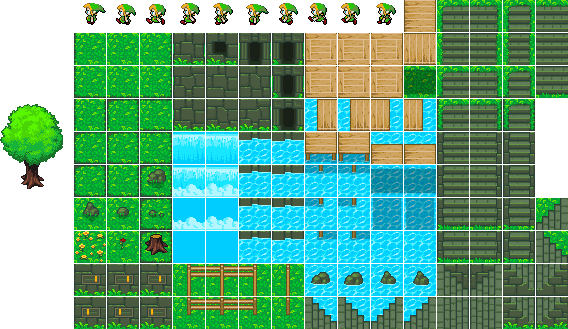
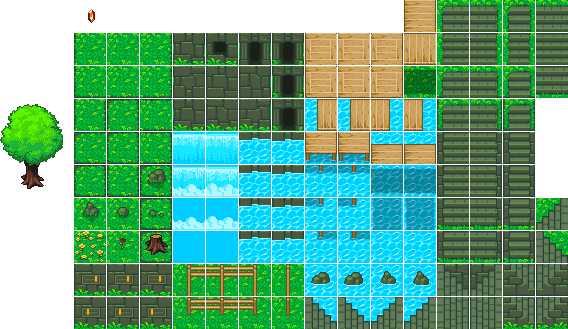
refatoração dos componentes de canvas

Changed region(s): [[0.2095, 0.0, 0.6285, 0.0912], [0.6585, 0.0, 0.7183, 0.0912], [0.1496, 0.0, 0.1796, 0.0912]]

diff --git a/src/components/canvas/GlCharacter.vue b/src/components/canvas/GlCharacter.vue
@@ -12,12 +12,21 @@ export default {
     actions: {
       type: Array,
       required: true
+    },
+    target: {
+      type: Object,
+      required: false
+    }
+  },
+  watch: {
+    actions() {
+      this.draw();
     }
   },
   methods: {
     draw() {
       const image = new Image();
-      image.src = require(`../assets/${this.src}`);
+      image.src = require(`../../assets/${this.src}`);
       image.addEventListener("load", () => {
         if (this.sprite) this.spriteDraw({ image });
       });
@@ -56,21 +65,33 @@ export default {
         };
 
         const walkableTile = (sprite, oldSprite) => {
-          const number = value => Number(value.toFixed(2));
-          const x = Math.floor(number(sprite.x) / number(this.tileSize));
-          const y = Math.floor(number(sprite.y) / number(this.tileSize));
+          const x = Math.round(sprite.x / this.tileSize);
+          const y = Math.round(sprite.y / this.tileSize);
           if (!this.tileList[y][x].isWalkable) {
             sprite.x = oldSprite.x;
             sprite.y = oldSprite.y;
+            sprite.callNextAction = true;
           }
           return sprite;
         };
+        const isTarget = (sprite, target = this.target) => {
+          const getTile = value => Math.round(value / this.tileSize);
+          return (
+            getTile(sprite.x) == getTile(target.x) &&
+            getTile(sprite.y) == getTile(target.y)
+          );
+        };
+
         cloneSprite = outOfBound(cloneSprite);
         cloneSprite = walkableTile(cloneSprite, oldSprite);
+        if (isTarget(sprite)) {
+          cloneSprite.callNextAction = true;
+          this.$emit("onFinish");
+        }
         return cloneSprite;
       };
 
-      const walk = (sprite, pixelFrame = this.tileSize / 8) => {
+      const walk = (sprite, pixelFrame = this.tileSize / 5) => {
         const walkByDirection = {
           left: { x: sprite.x - pixelFrame },
           top: { y: sprite.y - pixelFrame },
@@ -84,6 +105,7 @@ export default {
             .toFixed(2)
             .split(".")[1]
         );
+
         return applyRules(Object.assign(clone(sprite), position), sprite);
       };
 
@@ -132,6 +154,7 @@ export default {
                 sprite = walk(sprite);
                 break;
             }
+
             if (sprite.callNextAction || !sprite.srcPosx)
               sprite.srcPosx = sprite.initialX;
             else

diff --git a/src/views/Home.vue b/src/views/Home.vue
@@ -4,7 +4,15 @@
       <h2>Tabuleiro</h2>
       <div class="table__canvas">
         <gl-background :tile-list="tileList" :src="'background.png'"/>
-        <gl-character :tile-list="tileList" :actions="actions" :sprite="link" :src="'link.png'"/>
+        <gl-itens :sprite="item" :src="'link.png'"/>
+        <gl-character
+          :target="item"
+          :tile-list="tileList"
+          :actions="actions"
+          :sprite="link"
+          :src="'link.png'"
+          @onFinish="onFinish"
+        />
       </div>
       <button @click="executeActions" class="table__btn btn">Executar</button>
     </div>
@@ -43,18 +51,21 @@
 <script>
 import GlListItem from "../components/GlListItem";
 // import GlGameTable from "../components/GlGameTable";
-import GlBackground from "../components/GlBackground";
-import GlCharacter from "../components/GlCharacter";
+import GlBackground from "../components/canvas/GlBackground";
+import GlCharacter from "../components/canvas/GlCharacter";
+import GlItens from "../components/canvas/GlItens";
 import GlTimeLine from "../components/GlTimeLine";
 import backgroundFactory from "../factories/backgroundFactory.js";
 import characterFactory from "../factories/characterFactory.js";
+import itemFactory from "../factories/itemFactory.js";
 export default {
   name: "home",
-  components: { GlListItem, GlTimeLine, GlBackground, GlCharacter },
+  components: { GlListItem, GlTimeLine, GlBackground, GlCharacter, GlItens },
   data() {
     return {
       tileList: backgroundFactory.easy,
       link: characterFactory.link,
+      item: itemFactory.redRupee,
       actions: [],
       repeat: 20
     };
@@ -66,6 +77,9 @@ export default {
           clientX: event.x,
           clientY: event.pageY
         });
+    },
+    onFinish() {
+      alert("ae caraiu");
     },
     executeActions() {
       const { x, y, height } = this.$store.state.codeWorkPlaceLine;

diff --git a/src/components/canvas/GlItens.vue b/src/components/canvas/GlItens.vue
@@ -1,0 +1,30 @@
+<script>
+import GlGameTable from "./GlGameTable";
+export default {
+  name: "GlItens",
+  extends: GlGameTable,
+  props: {
+    sprite: {
+      type: Object,
+      required: true
+    }
+  },
+  methods: {
+    draw() {
+      const image = new Image();
+      image.src = require(`../../assets/${this.src}`);
+      image.addEventListener("load", () => {
+        if (this.sprite) this.drawSprite({ image });
+      });
+    },
+    drawSprite({ image }) {
+      this.sprite.src = image;
+      this.sprite.height = this.tileSize;
+      this.sprite.width = this.tileSize;
+      this.sprite.x = this.sprite.x * this.tileSize;
+      this.sprite.y = this.sprite.y * this.tileSize;
+      this.drawImage(this.sprite);
+    }
+  }
+};
+</script>

diff --git a/src/components/canvas/GlBackground.vue b/src/components/canvas/GlBackground.vue
@@ -6,7 +6,7 @@ export default {
   methods: {
     draw() {
       const image = new Image();
-      image.src = require(`../assets/${this.src}`);
+      image.src = require(`../../assets/${this.src}`);
       image.addEventListener("load", () => {
         if (this.tileList) this.backgroundDraw({ image });
       });

diff --git a/src/factories/itemFactory.js b/src/factories/itemFactory.js
@@ -1,0 +1,15 @@
+export default (() => {
+  const tileSize = 32;
+  const redRupee = {
+    srcPosx: 344,
+    srcPosY: 44,
+    srcWidth: tileSize,
+    srcHeight: tileSize,
+    x: 0,
+    y: 0
+  };
+
+  return {
+    redRupee
+  };
+})();

diff --git a/src/components/canvas/GlGameTable.vue b/src/components/canvas/GlGameTable.vue
@@ -29,11 +29,7 @@ export default {
       default: 6
     }
   },
-  watch: {
-    actions() {
-      this.draw();
-    }
-  },
+  
   methods: {
     drawImage({
       src,
